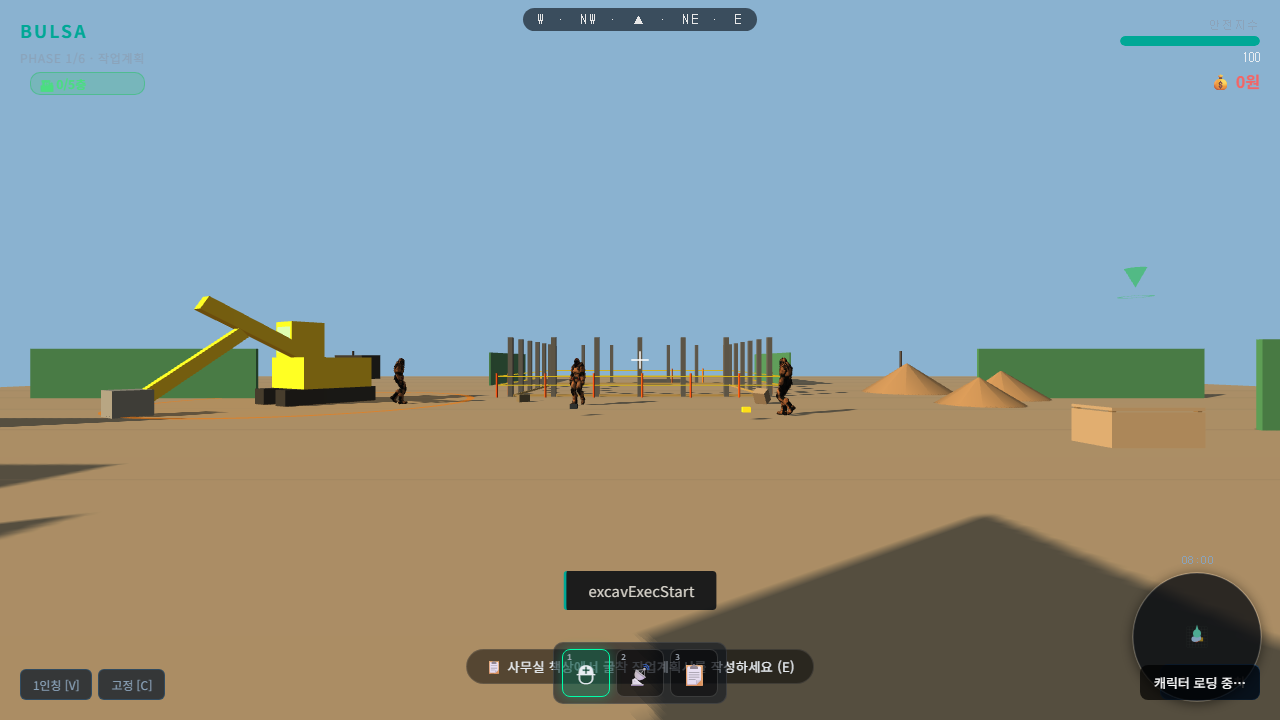
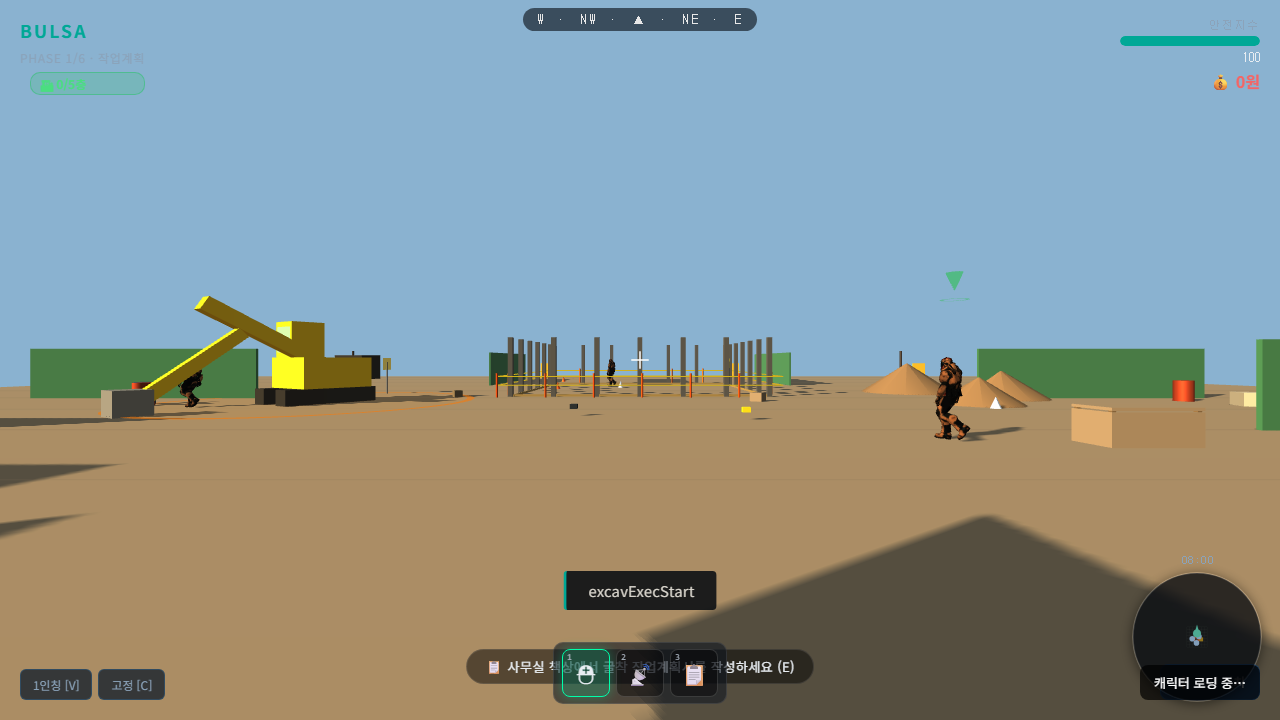
docs: PROGRESS.md 마라톤 세션 정리 — 18 모듈 + 8 버그픽스 + 5/5 PASS
Phase 1 (게임감): pause_menu·achievements·bgm·sfx_ext·loading·intro·stats·perf·crash·seo
Phase 3 (배포): PWA·manifest·sw·404
Phase 4 (확장): pickup·weather_fx·events·glow·objective_marker·scene_decor
Phase 5 (유튜버 픽스): 블로커/로딩/컴퍼스/튜토리얼/브리핑/Hub/NPC/움직임

자동 테스트 5/5 PASS, 콘솔 에러 0, 404 0
claude-in-chrome 플레이쓰루: 5시나리오 시각 검증 완료
다국어 NPC 잡담 동작 확인 (ko/en/ar/vi)

diff --git a/PROGRESS.md b/PROGRESS.md
@@ -1,31 +1,33 @@
 # BULSA 개발 현황
 > 작업 완료 시 이 파일만 업데이트. 내용은 항상 30줄 이내로 유지.
 
-## 마지막 완료 작업 (2026-05-11 세션)
-- **자동 테스트 인프라**: qa/smoke-test.js, qa/full-test.js (5시나리오 PASS)
-- **물리엔진 (cannon.js 0.6.2)**: 낙하물 데모 · 빔 펜듈럼 흔들림 · 임팩트 셰이크/먼지
-- **안전관리자 적발 시스템**: 40~80초 출현, 시나리오별 위반 점검, 산안법 시행령 별표 35 과태료
-- **누적 과태료 영속화**: localStorage → 시나리오 전환 후 유지, HUD 표시
-- **수직 충돌 픽스**: maxStepUp=0.45m — 벽 윗면 잡혀 텔레포트되던 버그 차단
-- **게임감 강화 (core/juice.js)**: 카메라 셰이크 · 발자국 먼지 · NPC↔낙하물 근접 알림
-- **시나리오별 분위기 NPC**: lifting 5명 + 4시나리오에 작업자 2~3명 (Yuka wander)
-- **HUD 컴퍼스**: 상단 중앙 8방위 21자 윈도우 (▲ 중앙)
-- **첫 진입 튜토리얼**: 키 안내 + 안전법 목표 설명, localStorage 1회
-- **NPC 잡담**: 4개 언어 풀 × 10문장, 8~26초 간격 머리위 버블
+## 마지막 완료 작업 (2026-05-12 — 마라톤 세션)
+**18개 신규 모듈 + 8건 핵심 버그 픽스 + 5/5 자동 테스트 PASS**
 
-## 다음 작업 (우선순위 순)
-1. **GLB 에셋 통합** — Quaternius/Kenney 굴착기·펌프카·크레인·작업자
-2. **건설 진행 3D 애니메이션** — 작업 완료 시 비계/철근/거푸집이 단계적 출현
-3. **종료 화면 점수 요약** — 안전지수·과태료·소요시간 breakdown
-4. **NPC 작업 애니메이션** — Soldier GLB 스테이트머신, 작업 동작
-5. **물리 확장** — 작업자 추락 람돌체, 빔 충돌 반응
+### Phase 1 — 게임감
+- pause_menu (P/ESC, 메뉴/설정/통계 3탭, 나가기/난이도/볼륨/감도) · achievements (12개 + 토스트) · bgm (시나리오별 Web Audio 합성) · sfx_ext (11개 효과음) · loading · intro (3초 컷씬) · stats · perf (F3) · crash · seo (OpenGraph)
 
-## 디자인 원칙
-- **행동 중심**: 도구 사용·측정·이동이 결과에 영향
-- **숙련도**: 도구별 카운터 → Lv 진행
-- **정체성**: 안전 시뮬레이터 — 모든 추가 기능은 산안법·KOSHA 가이드를 반영
+### Phase 3 — 배포 폴리시
+- manifest.webmanifest + sw.js (PWA, network-first) · 404.html · 모바일 메타
+
+### Phase 4 — 확장
+- pickup (Q/F, 물리 던지기) · weather_fx (비/먼지/안개, B키) · events (랜덤 알림) · interact_glow · objective_marker (3D 화살표) · scene_decor (안전콘·드럼·자재·표지판·울타리)
+
+### Phase 5 — 유튜버 플레이쓰루 버그 픽스
+- 블로커 시나리오별 텍스트 · "캐릭터 로딩 중..." 12초 타임아웃 · 컴퍼스 9자 윈도우 · 튜토리얼 타이밍 · 시나리오별 브리핑 5종 · Hub 5시나리오 모두 활성 · NPC 위치 분산 · 플레이어 가속/카메라보브/스프린트FOV/크라우치/감도
+
+## 검증 상태
+- 자동 테스트 5/5 PASS, 콘솔 에러 0, 404 0
+- claude-in-chrome 플레이쓰루: 5시나리오 모두 시각 검증 완료
+- 다국어 (ko/en/ar/vi) NPC 잡담 동작 확인
+
+## 다음 작업 (v1.x)
+1. GLB 에셋 통합 (Quaternius/Kenney)
+2. 건설 진행 3D 애니메이션 (작업 완료 시 비계/철근 출현)
+3. NPC 작업 애니메이션 + 플레이어 회피
+4. 18:00 시간 압박 (작업 미완료 시 강제 종료)
 
 ## 핵심 결정사항
-- Phase 1·2는 무사이 담당. BULSA는 Phase 3부터
-- 물리: cannon.js 0.6.2 UMD (vendor/cannon.min.js)
-- 과태료: KRW (시행령 별표 35 기준)
+- 물리: cannon.js 0.6.2 UMD · BGM: Web Audio 합성 (외부 파일 의존 없음)
+- 과태료: KRW (시행령 별표 35) · 등급: S/A/B/C/D
+- PWA: network-first (활성 개발 중 자동 업데이트)
